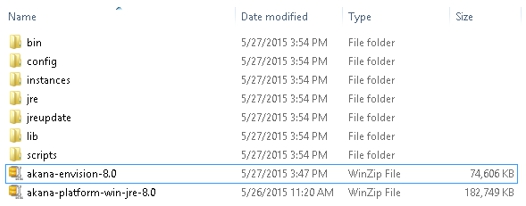
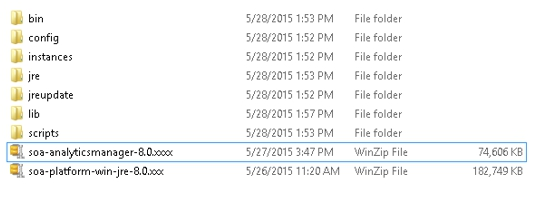
AM-393 Envision install guide updates

diff --git a/ag/envision_install/installing_envision.htm b/ag/envision_install/installing_envision.htm
@@ -1,16 +1,16 @@
 ---
 layout: page
-title: Installing Envision 8.0
+title: Installing Envision 1.0
 description: Learn how to install the Envision analytics and monitoring solution.
 product: ag
 category: ref
 weight:	1
 sub-nav-class: Envision
 type: page
-nav-title: Installing Envision 8.0
+nav-title: Installing Envision 1.0
 ---
 
-<h2 name="top">Installing Envision 8.0</h2>
+<h2 name="top">Installing Envision 1.0</h2>
 
 <p>Learn how to install the Envision analytics and monitoring solution.</p>
 
@@ -77,20 +77,19 @@ nav-title: Installing Envision 8.0
 <a name="introduction">
 <h3>Introduction</h3></a>
 
-<p>Installation of the Envision 8.0 analytics and monitoring solution requires installation of the Akana 8.0 platform, installation and setup of a MongoDB database, and installation and configuration of the Envision feature using the Akana Administration Console. 
+<p>Installation of the Envision 1.0 analytics and monitoring solution requires installation of the Akana 8.0 platform, installation and setup of a MongoDB database, and installation and configuration of the Envision feature using the <em>Akana Administration Console</em>. 
 <a name="download_platform_zip">
 <h3>Step 1: Download Akana Platform Zip File</h3></a>
 
 
-<p>Download an Akana Platform self-extracting zip file from the <em>Akana Customer Support Site</em>: </p>
+<p>Download an Akana Platform self-extracting zip file from Jenkins build repository:  </p>
 <ol class="usingOrderedList">
-  <li>Launch www.support.akana.com</li>
-  <li>Go to<em> Downloads &gt; Akana Platform &gt; 8.0</em>.</li>
-  <li>Download a  platform zip file:
-    <p><strong>akana-platform-linux-jre-8.0.xxx.zip</strong> (Linux only - includes JRE)</p>
-    <p><strong>akana-platform-win-jre-8.0.xxx.zip</strong> (Windows only - includes JRE)<br />
+  <li>Launch <a href="http://pdobuild:8080/view/All/job/Platform-Trunk">http://pdobuild:8080/view/All/job/Platform-Trunk</a></li>
+  <li>Go to build #XXX, and download the platform zip:
+    <p><strong>soa-platform-linux-jre-8.0.xxx.zip</strong> (Linux only - includes JRE)</p>
+    <p><strong>soa-platform-win-jre-8.0.xxx.zip</strong> (Windows only - includes JRE)<br />
       <br />
-    <strong>akana-platform-8.0.xxx.zip</strong>    (Does not include JRE. Can be used for Windows, Linux, Solaris, Windows only - includes JRE).</p>
+      <strong>soa-platform-8.0.xxx.zip</strong>    (Does not include JRE. Can be used for Windows, Linux, Solaris, Windows only - includes JRE).</p>
   </li>
 </ol>
 <p><a href="#top">back to top</a></p>
@@ -104,7 +103,7 @@ nav-title: Installing Envision 8.0
 <ol class="usingOrderedList">
   <li>Extract the platform zip file to a new or existing folder. The directory structure will look similar to the following:<br />
     <br />
-  <em><img src="images/akana_platform_dir.JPG" width="585" height="187" /></em></li>
+    <img src="images/akana_platform_dir.JPG" width="511" height="166" /></li>
 </ol>
 <p><a href="#top">back to top</a></p>
 
@@ -151,13 +150,12 @@ nav-title: Installing Envision 8.0
 <a name="download_envision_zip">
 
 <h3>Step 6: Download Envision Zip File</h3></a>
-<p>The Envision  zip file must be installed to the Akana Platform. Download the Envision self-extracting zip file from the <em>Akana Customer Support Site</em>: </p>
+<p>The Envision  zip file must be installed to the Akana Platform. Download the Envision self-extracting zip file from  the Jenkins build repository:</p>
 
 <ol class="usingOrderedList">
-  <li>Launch www.support.akana.com</li>
-  <li>Go to<em> Downloads &gt; Envision &gt; 8.0</em>.</li>
-  <li>Download the following file:
-    <p><strong>akana-envision-8.0.xxxx.zip</strong></p>
+  <li>Launch  <a href="http://pdobuild:8080/view/All/job/AM-Trunk/">http://pdobuild:8080/view/All/job/AM-Trunk/</a></li>
+  <li>Go to build #XXX, and download the Envision zip file:
+    <p><strong>soa-analyticsmanager-8.0.xxxx.zip</strong></p>
   </li>
 </ol>
 <p><a href="#top">back to top</a></p>
@@ -169,8 +167,7 @@ nav-title: Installing Envision 8.0
 <ol class="usingOrderedList">
   <li>Extract the Envision zip file to the Akana platform folder. The directory structure will look similar to the following:<br />
     <br />
-    <img src="images/akana_envision_dir.jpg" width="526" height="206" />
-    <br />
+    <img src="images/akana_envision_dir.jpg" width="533" height="198" /><br />
   </li>
 </ol>
 <p><a href="#top">back to top</a></p>
@@ -204,10 +201,10 @@ nav-title: Installing Envision 8.0
 </p>
 
 <a name="install_dataset_plugin">
-<h3>Step 10: Install and Configure Envision Option Packs For Demo Charts</h3></a>
+<h3>Step 10: Install and Configure  Option Packs For Demo Charts</h3></a>
 <ol class="usingOrderedList">
   <li>On the <em>Installed Features</em> screen, select <strong>Plug-ins</strong> from the <em>Filter</em> menu. </li>
-  <li>Select the <em>Envision Option Packs for Demo Charts   </em> plug-in and click <strong>Install Feature</strong>.</li>
+  <li>Select the <em> Option Packs for Demo Charts </em> plug-in and click <strong>Install Feature</strong>.</li>
   <li>After the installation is complete, click <strong>Configure </strong>and continue.</li>
   <li>On the <em>Configure Seed Data for Charts </em> screen, select the checkbox for each DataSet and click <strong>Finish</strong>. The container restarts. </li>
 </ol>
